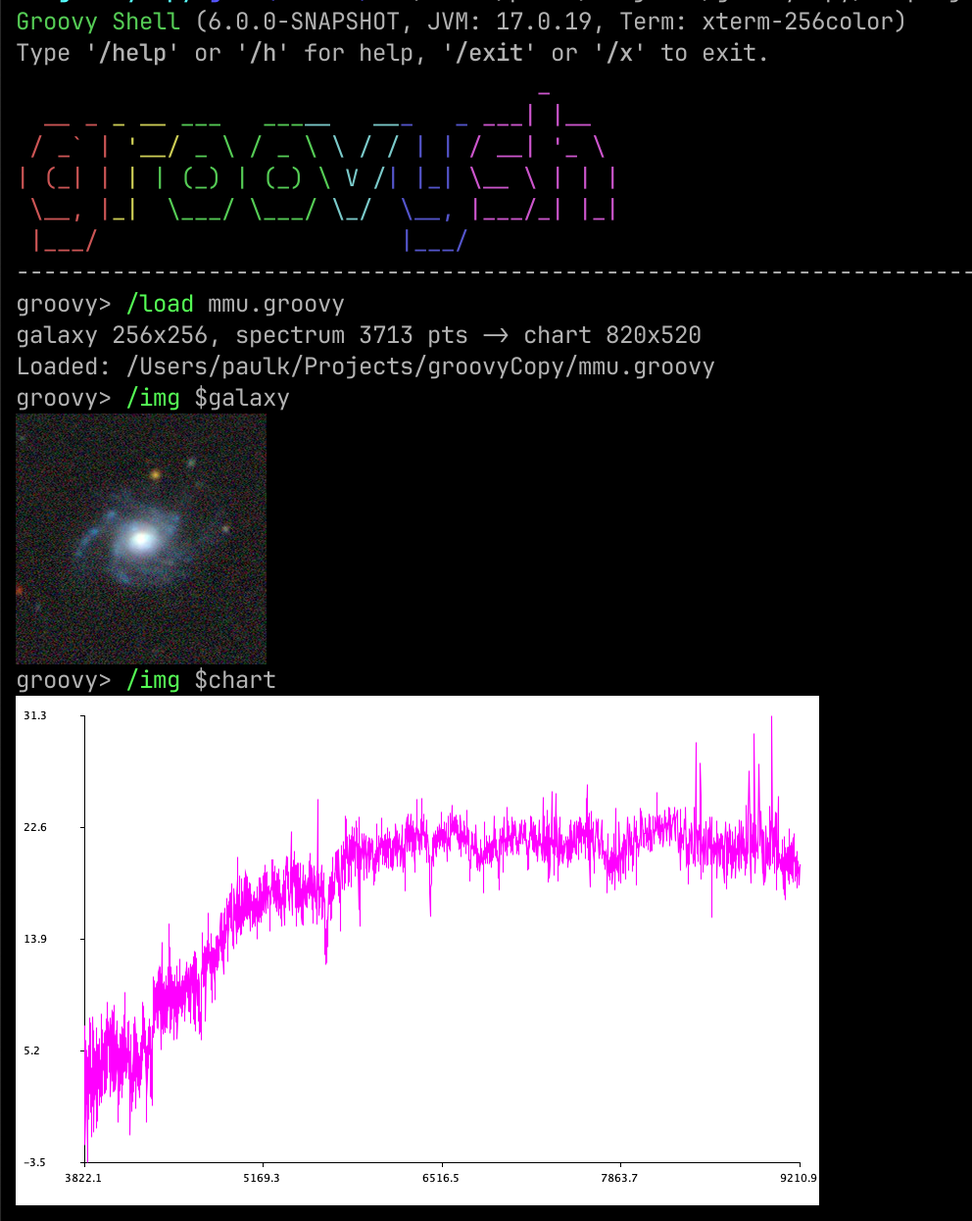
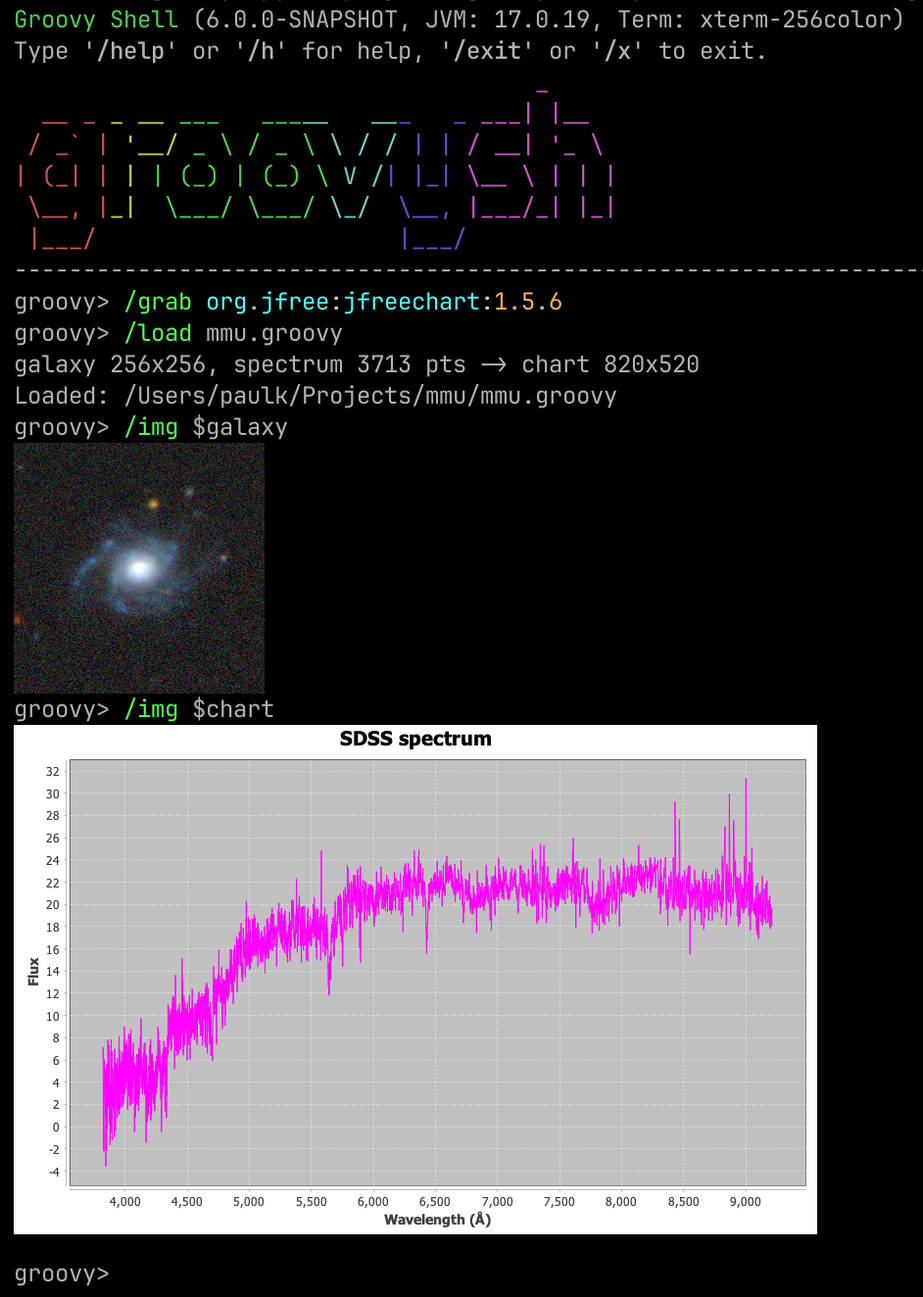
2026/07/02 23:31:56: Generated dev website from groovy-website@4575078

diff --git a/blog/multimodal-universe-with-groovy.html b/blog/multimodal-universe-with-groovy.html
@@ -3,7 +3,7 @@
 <!--[if IE 7]>         <html class="no-js lt-ie9 lt-ie8"> <![endif]-->
 <!--[if IE 8]>         <html class="no-js lt-ie9"> <![endif]-->
 <!--[if gt IE 8]><!--> <html class="no-js"> <!--<![endif]--><head>
-    <meta charset='utf-8'/><meta http-equiv='X-UA-Compatible' content='IE=edge'/><meta name='viewport' content='width=device-width, initial-scale=1'/><meta name='keywords' content='groovy, groovysh, huggingface, astronomy, astrophysics, data science, sixel, java2d, spectrum'/><meta name='description' content='Reproduce a viral astronomy demo in groovysh: load galaxy images and spectra from Hugging Face&apos;s Multimodal Universe and render them inline with /img.'/><title>The Apache Groovy programming language - Blogs - Exploring the Multimodal Universe with Groovy&trade;</title><link href='../img/favicon.ico' type='image/x-ico' rel='icon'/><script src='../js/matomo.js'></script><link rel='stylesheet' type='text/css' href='../css/bootstrap.css'/><link rel='stylesheet' type='text/css' href='../css/fontawesome.min.css'/><link rel='stylesheet' type='text/css' href='../css/brands.min.css'/><link rel='stylesheet' type='text/css' href='../css/regular.min.css'/><link rel='stylesheet' type='text/css' href='../css/solid.min.css'/><link rel='stylesheet' type='text/css' href='../css/style.css'/><link rel='stylesheet' type='text/css' href='../css/modern-design.css'/><link rel='stylesheet' type='text/css' href='../css/prettify.min.css'/>
+    <meta charset='utf-8'/><meta http-equiv='X-UA-Compatible' content='IE=edge'/><meta name='viewport' content='width=device-width, initial-scale=1'/><meta name='keywords' content='groovy, groovysh, huggingface, astronomy, astrophysics, data science, sixel, jfreechart, spectrum'/><meta name='description' content='Reproduce a viral astronomy demo in groovysh: load galaxy images and spectra from Hugging Face&apos;s Multimodal Universe and render them inline with /img.'/><title>The Apache Groovy programming language - Blogs - Exploring the Multimodal Universe with Groovy&trade;</title><link href='../img/favicon.ico' type='image/x-ico' rel='icon'/><script src='../js/matomo.js'></script><link rel='stylesheet' type='text/css' href='../css/bootstrap.css'/><link rel='stylesheet' type='text/css' href='../css/fontawesome.min.css'/><link rel='stylesheet' type='text/css' href='../css/brands.min.css'/><link rel='stylesheet' type='text/css' href='../css/regular.min.css'/><link rel='stylesheet' type='text/css' href='../css/solid.min.css'/><link rel='stylesheet' type='text/css' href='../css/style.css'/><link rel='stylesheet' type='text/css' href='../css/modern-design.css'/><link rel='stylesheet' type='text/css' href='../css/prettify.min.css'/>
 </head><body>
     <div id='fork-me'>
         <a href='https://github.com/apache/groovy'>
@@ -63,7 +63,7 @@
                                     </ul>
                                 </div>
                             </div>
-                        </div><div id='content' class='page-1'><div class='row'><div class='row-fluid'><div class='col-lg-3'><ul class='nav-sidebar'><li><a href='./'>Blog index</a></li><li class='active'><a href='#doc'>Exploring the Multimodal Universe with Groovy&trade;</a></li><li><a href='#_what_is_the_multimodal_universe' class='anchor-link'>What is the Multimodal Universe?</a></li><li><a href='#_rendering_images_in_groovysh' class='anchor-link'>Rendering images in groovysh</a></li><li><a href='#_the_script' class='anchor-link'>The script</a></li><li><a href='#_running_it' class='anchor-link'>Running it</a></li><li><a href='#_what_are_we_looking_at' class='anchor-link'>What are we looking at?</a></li><li><a href='#_what_we_didnt_reproduce' class='anchor-link'>What we didn&#8217;t reproduce</a></li><li><a href='#_more_information' class='anchor-link'>More information</a></li><li><a href='#_conclusion' class='anchor-link'>Conclusion</a></li></ul><br/><ul class='nav-sidebar'><li style='padding: 0.35em 0.625em; background-color: #eee'><span>Related posts</span></li><li><a href='./reading-and-writing-csv-files'>Reading and Writing CSV files with Groovy&trade;</a></li><li><a href='./matrix-calculations-with-groovy-apache'>Matrix calculations with Groovy&trade;, Apache Commons Math, ojAlgo, Nd4j and EJML</a></li><li><a href='./fruity-eclipse-collections'>Fruity Eclipse Collections</a></li><li><a href='./classifying-iris-flowers-with-deep'>Classifying Iris Flowers with Deep Learning, Groovy&trade; and GraalVM</a></li><li><a href='./whiskey-clustering-with-groovy-and'>Whiskey Clustering with Groovy&trade; and Apache Ignite</a></li><li><a href='./detecting-objects-with-groovy-the'>Detecting objects with Groovy&trade;, the Deep Java Library (DJL), and Apache MXNet</a></li><li><a href='./using-groovy-with-apache-wayang'>Using Groovy&trade; with Apache Wayang and Apache Spark&trade;</a></li></ul></div><div class='col-lg-8 col-lg-pull-0'><a name='doc'></a><h1>Exploring the Multimodal Universe with Groovy&trade;</h1><p><div style='display:flex;padding:0.2ex'><span>Author:&nbsp;</span>
+                        </div><div id='content' class='page-1'><div class='row'><div class='row-fluid'><div class='col-lg-3'><ul class='nav-sidebar'><li><a href='./'>Blog index</a></li><li class='active'><a href='#doc'>Exploring the Multimodal Universe with Groovy&trade;</a></li><li><a href='#_what_is_the_multimodal_universe' class='anchor-link'>What is the Multimodal Universe?</a></li><li><a href='#_rendering_images_in_groovysh' class='anchor-link'>Rendering images in groovysh</a></li><li><a href='#_the_script' class='anchor-link'>The script</a></li><li><a href='#_running_it' class='anchor-link'>Running it</a></li><li><a href='#_what_are_we_looking_at' class='anchor-link'>What are we looking at?</a></li><li><a href='#_what_we_didnt_reproduce' class='anchor-link'>What we didn&#8217;t reproduce</a></li><li><a href='#_a_dependency_free_variant' class='anchor-link'>A dependency-free variant</a></li><li><a href='#_more_information' class='anchor-link'>More information</a></li><li><a href='#_conclusion' class='anchor-link'>Conclusion</a></li></ul><br/><ul class='nav-sidebar'><li style='padding: 0.35em 0.625em; background-color: #eee'><span>Related posts</span></li><li><a href='./reading-and-writing-csv-files'>Reading and Writing CSV files with Groovy&trade;</a></li><li><a href='./matrix-calculations-with-groovy-apache'>Matrix calculations with Groovy&trade;, Apache Commons Math, ojAlgo, Nd4j and EJML</a></li><li><a href='./fruity-eclipse-collections'>Fruity Eclipse Collections</a></li><li><a href='./classifying-iris-flowers-with-deep'>Classifying Iris Flowers with Deep Learning, Groovy&trade; and GraalVM</a></li><li><a href='./whiskey-clustering-with-groovy-and'>Whiskey Clustering with Groovy&trade; and Apache Ignite</a></li><li><a href='./detecting-objects-with-groovy-the'>Detecting objects with Groovy&trade;, the Deep Java Library (DJL), and Apache MXNet</a></li><li><a href='./using-groovy-with-apache-wayang'>Using Groovy&trade; with Apache Wayang and Apache Spark&trade;</a></li></ul></div><div class='col-lg-8 col-lg-pull-0'><a name='doc'></a><h1>Exploring the Multimodal Universe with Groovy&trade;</h1><p><div style='display:flex;padding:0.2ex'><span>Author:&nbsp;</span>
 <a href="https://github.com/paulk-asert/" target="_blank" rel="noopener noreferrer"><img style="border-radius:50%;height:48px;width:auto" src="img/paulk-asert.png" alt="Paul King"></a>
 <div style="display:grid;align-items:center;margin:0.1ex;padding:0ex">
   <div><a href="https://github.com/paulk-asert/" target="_blank" rel="noopener noreferrer"><span>Paul King</span></a></div>
@@ -180,8 +180,147 @@ chart we build ourselves.</p>
 <div class="paragraph">
 <p>Here is the complete <code>mmu.groovy</code> script. It reads one cross-matched-style row from each dataset,
 decodes the galaxy PNG, filters the masked points out of the spectrum (mirroring the video&#8217;s
-<code>s = s[~s["mask"]]</code>), and hand-draws the spectrum as a Java2D line plot returned as a
+<code>s = s[~s["mask"]]</code>), and plots the spectrum with JFreeChart, handed to <code>/img</code> as a
 <code>BufferedImage</code>:</p>
+</div>
+<div class="listingblock">
+<div class="content">
+<pre class="prettyprint highlight"><code data-lang="groovy">import groovy.json.JsonSlurper
+import java.awt.Color
+import javax.imageio.ImageIO
+import org.jfree.chart.ChartFactory
+import org.jfree.data.xy.XYSeries
+import org.jfree.data.xy.XYSeriesCollection
+
+rows = { String ds -&gt; new JsonSlurper().parse(
+    new URL("https://datasets-server.huggingface.co/rows?dataset=$ds&amp;config=default&amp;split=train&amp;offset=0&amp;length=1")).rows[0].row }
+
+// --- the galaxy: gz10 stores a ready-made RGB PNG as base64 bytes ---
+galaxy = ImageIO.read(new ByteArrayInputStream(rows('UniverseTBD/mmu_gz10').rgb_image.bytes.decodeBase64()))
+
+// --- the spectrum: drop masked points, like s[~s["mask"]] in the video ---
+spec = rows('UniverseTBD/mmu_sdss_sdss').spectrum
+pts = [spec.'lambda', spec.flux, spec.mask].transpose().findAll { !it[2] }.collect { [it[0] as double, it[1] as double] }
+
+// --- a JFreeChart line plot -&gt; a BufferedImage that /img renders ---
+series = new XYSeries('flux')
+pts.each { series.add(it[0], it[1]) }
+plot = ChartFactory.createXYLineChart('SDSS spectrum', 'Wavelength (Å)', 'Flux', new XYSeriesCollection(series))
+plot.XYPlot.renderer.setSeriesPaint(0, Color.MAGENTA)  // magenta, to match the original demo
+plot.removeLegend()
+chart = plot.createBufferedImage(820, 520)
+println "galaxy ${galaxy.width}x${galaxy.height}, spectrum ${pts.size()} pts -&gt; chart ${chart.width}x${chart.height}"</code></pre>
+</div>
+</div>
+<div class="paragraph">
+<p>A few things worth pointing out:</p>
+</div>
+<div class="ulist">
+<ul>
+<li>
+<p>The whole data-access layer is a one-line closure. <code>JsonSlurper</code> parses the HTTP response, and
+Groovy&#8217;s GDK gives us <code>decodeBase64()</code> on the PNG string for free.</p>
+</li>
+<li>
+<p><code>transpose()</code> zips the three parallel arrays (<code>lambda</code>, <code>flux</code>, <code>mask</code>) together so we can
+<code>findAll</code> the unmasked samples in one readable expression.</p>
+</li>
+<li>
+<p>The spectrum is drawn with <a href="https://www.jfree.org/jfreechart/">JFreeChart</a>: <code>createXYLineChart</code>
+gives us axes, ticks and gridlines for free, and <code>createBufferedImage</code> hands <code>/img</code> exactly the
+<code>BufferedImage</code> it wants. That is the same trick the <code>groovysh</code> user guide uses to show off XChart,
+Smile and Orson Charts — <code>/img</code> speaks <code>BufferedImage</code>, so the whole JVM charting ecosystem is one
+<code>/grab</code> away.</p>
+</li>
+</ul>
+</div>
+</div>
+</div>
+<div class="sect1">
+<h2 id="_running_it">Running it</h2>
+<div class="sectionbody">
+<div class="paragraph">
+<p>Start <code>groovysh</code>, pull in the one charting dependency with the shell&#8217;s <code>/grab</code> command, load the
+script, and view each result with <code>/img</code>:</p>
+</div>
+<div class="listingblock">
+<div class="content">
+<pre class="prettyprint highlight"><code>groovy> /grab org.jfree:jfreechart:1.5.6
+groovy> /load mmu.groovy
+galaxy 256x256, spectrum 3713 pts -> chart 820x520
+Loaded: mmu.groovy
+groovy> /img $galaxy
+groovy> /img $chart</code></pre>
+</div>
+</div>
+<div class="paragraph">
+<p>We use <code>groovysh&#8217;s `/grab</code> command rather than an <code>@Grab</code> annotation in the script itself: <code>/load</code>
+runs the file as a plain script, so grabbing the dependency in the shell first keeps that step
+explicit (and matches how the <code>groovysh</code> guide adds XChart, Smile and the other charting libraries).</p>
+</div>
+<div class="paragraph">
+<p>Here is the script itself, viewed through the shell&#8217;s built-in <code>/less</code> pager (which syntax-highlights
+Groovy):</p>
+</div>
+<div class="paragraph">
+<p><span class="image"><img src="./img/mmu-groovysh-source.png" alt="The mmu.groovy script in the groovysh pager" width="800"></span></p>
+</div>
+<div class="paragraph">
+<p>And here is the payoff — a galaxy and its spectrum, drawn directly in the terminal:</p>
+</div>
+<div class="paragraph">
+<p><span class="image"><img src="./img/mmu-groovysh-output.png" alt="groovysh rendering a galaxy image and its spectrum inline" width="600"></span></p>
+</div>
+</div>
+</div>
+<div class="sect1">
+<h2 id="_what_are_we_looking_at">What are we looking at?</h2>
+<div class="sectionbody">
+<div class="paragraph">
+<p>The top image is a single galaxy from the Galaxy Zoo / DECaLS set: a bright central bulge with
+fainter spiral structure around it, sitting in a field speckled with foreground stars and other
+faint sources (the little coloured dots). It is a true-colour composite assembled from the survey&#8217;s
+imaging bands.</p>
+</div>
+<div class="paragraph">
+<p>The lower plot is that same class of object&#8217;s SDSS optical spectrum: <strong>flux on the vertical axis
+against wavelength (in &#8491;ngstr&ouml;ms) on the horizontal axis</strong>, from about 3800&#8491; on the
+left to 9200&#8491; on the right. The characteristic shape — low and noisy in the blue, rising to a
+broad, fairly flat continuum toward the red — is the combined light of the galaxy&#8217;s stellar
+populations, with narrow spikes where emission lines and residual sky features poke through. We drew
+the line in magenta to match the original demo, and let JFreeChart supply the axes, ticks and
+gridlines. We removed the flagged (`mask`ed) pixels first, so 3713 good samples remain out of the
+original ~3850.</p>
+</div>
+<div class="paragraph">
+<p>The real point: a few lines of Groovy pulled a real galaxy and a real spectrum out of an 80TB,
+30-survey collection, over plain HTTP, and painted them in a terminal — with no local data download.
+And because <code>groovysh&#8217;s `/img</code> speaks <code>BufferedImage</code>, reaching for a proper charting library like
+JFreeChart costs one <code>/grab</code> and a handful of lines. And if you would rather ship no dependency at
+all, the pure-JDK variant at the end of this post draws the same plot by hand.</p>
+</div>
+</div>
+</div>
+<div class="sect1">
+<h2 id="_what_we_didnt_reproduce">What we didn&#8217;t reproduce</h2>
+<div class="sectionbody">
+<div class="paragraph">
+<p>The original video&#8217;s headline feat is the <strong>cross-match</strong> itself — joining <code>gz10</code> (imagery) against
+<code>sdss</code> (spectra), or SDSS against Gaia, using LSDB&#8217;s HATS-partitioned catalogs. That machinery is
+Python-native and has no direct JVM equivalent, so here we simply grabbed a representative row from
+each dataset rather than computing the spatial join. Everything downstream of the match — decoding
+the image, cleaning the spectrum, and rendering both — is pure Groovy and the JDK.</p>
+</div>
+</div>
+</div>
+<div class="sect1">
+<h2 id="_a_dependency_free_variant">A dependency-free variant</h2>
+<div class="sectionbody">
+<div class="paragraph">
+<p>Reaching for JFreeChart is the pragmatic choice, but the demo also works with <strong>no external dependency
+at all</strong> — the JDK&#8217;s own Java2D can paint the line plot straight into a <code>BufferedImage</code>, which is
+exactly what <code>/img</code> consumes. It is more code, but it ships with the JVM, so there is no <code>/grab</code>: just
+<code>/load mmu_java2d.groovy</code>.</p>
 </div>
 <div class="listingblock">
 <div class="content">
@@ -230,93 +369,23 @@ println "galaxy ${galaxy.width}x${galaxy.height}, spectrum ${pts.size()} pts -&g
 </div>
 </div>
 <div class="paragraph">
-<p>A few things worth pointing out:</p>
+<p>Two things worth noting:</p>
 </div>
 <div class="ulist">
 <ul>
 <li>
-<p>The whole data-access layer is a one-line closure. <code>JsonSlurper</code> parses the HTTP response, and
-Groovy&#8217;s GDK gives us <code>decodeBase64()</code> on the PNG string for free.</p>
+<p>No <code>/grab</code> this time — the plot is hand-drawn with Java2D in the <code>spectrumPlot</code> closure, so we scale
+the axes, draw the ticks, and stroke the line ourselves instead of getting them for free. That is the
+cost of dropping the dependency.</p>
 </li>
 <li>
-<p><code>transpose()</code> zips the three parallel arrays (<code>lambda</code>, <code>flux</code>, <code>mask</code>) together so we can
-<code>findAll</code> the unmasked samples in one readable expression.</p>
-</li>
-<li>
-<p>Note the <code>import module java.desktop</code> on line 3. This is a
-<a href="https://openjdk.org/jeps/494">JDK module import</a> (JEP 494), supported in Groovy 6, that pulls in every
-package the <code>java.desktop</code> module exports (<code>java.awt</code>, <code>java.awt.geom</code>, <code>java.awt.image</code>, and more) in
-a single line — handy for a script that reaches into a few AWT corners.</p>
+<p>The <code>import module java.desktop</code> on line 3 is a <a href="https://openjdk.org/jeps/494">JDK module import</a>
+(JEP 494), supported in Groovy 6: it pulls in every package the <code>java.desktop</code> module exports
+(<code>java.awt</code>, <code>java.awt.geom</code>, <code>java.awt.image</code>, and more) in a single line — handy here because the
+hand-rolled plot reaches into several AWT corners (<code>BufferedImage</code>, <code>Path2D</code>, <code>BasicStroke</code>,
+<code>RenderingHints</code>, <code>Color</code>).</p>
 </li>
 </ul>
-</div>
-</div>
-</div>
-<div class="sect1">
-<h2 id="_running_it">Running it</h2>
-<div class="sectionbody">
-<div class="paragraph">
-<p>Start <code>groovysh</code>, load the script, and view each result with <code>/img</code>:</p>
-</div>
-<div class="listingblock">
-<div class="content">
-<pre class="prettyprint highlight"><code>groovy> /load mmu.groovy
-galaxy 256x256, spectrum 3713 pts -> chart 820x520
-Loaded: mmu.groovy
-groovy> /img $galaxy
-groovy> /img $chart</code></pre>
-</div>
-</div>
-<div class="paragraph">
-<p>Here is the script itself, viewed through the shell&#8217;s built-in <code>/less</code> pager (which syntax-highlights
-Groovy):</p>
-</div>
-<div class="paragraph">
-<p><span class="image"><img src="./img/mmu-groovysh-source.png" alt="The mmu.groovy script in the groovysh pager" width="800"></span></p>
-</div>
-<div class="paragraph">
-<p>And here is the payoff — a galaxy and its spectrum, drawn directly in the terminal:</p>
-</div>
-<div class="paragraph">
-<p><span class="image"><img src="./img/mmu-groovysh-output.png" alt="groovysh rendering a galaxy image and its spectrum inline" width="600"></span></p>
-</div>
-</div>
-</div>
-<div class="sect1">
-<h2 id="_what_are_we_looking_at">What are we looking at?</h2>
-<div class="sectionbody">
-<div class="paragraph">
-<p>The top image is a single galaxy from the Galaxy Zoo / DECaLS set: a bright central bulge with
-fainter spiral structure around it, sitting in a field speckled with foreground stars and other
-faint sources (the little coloured dots). It is a true-colour composite assembled from the survey&#8217;s
-imaging bands.</p>
-</div>
-<div class="paragraph">
-<p>The lower plot is that same class of object&#8217;s SDSS optical spectrum: <strong>flux on the vertical axis
-against wavelength (in &#8491;ngstr&ouml;ms) on the horizontal axis</strong>, from about 3800&#8491; on the
-left to 9200&#8491; on the right. The characteristic shape — low and noisy in the blue, rising to a
-broad, fairly flat continuum toward the red — is the combined light of the galaxy&#8217;s stellar
-populations, with narrow spikes where emission lines and residual sky features poke through. We drew
-it in magenta to match the original demo; the thin black vertical hairs you can see are simply the
-plot connecting rapidly varying adjacent samples. We removed the flagged (`mask`ed) pixels first, so
-3713 good samples remain out of the original ~3850.</p>
-</div>
-<div class="paragraph">
-<p>The point isn&#8217;t the plot&#8217;s polish — it&#8217;s that a few lines of Groovy pulled a real galaxy and a real
-spectrum out of an 80TB, 30-survey collection, over plain HTTP, and painted them in a terminal, with
-no local data download and no heavyweight plotting dependency.</p>
-</div>
-</div>
-</div>
-<div class="sect1">
-<h2 id="_what_we_didnt_reproduce">What we didn&#8217;t reproduce</h2>
-<div class="sectionbody">
-<div class="paragraph">
-<p>The original video&#8217;s headline feat is the <strong>cross-match</strong> itself — joining <code>gz10</code> (imagery) against
-<code>sdss</code> (spectra), or SDSS against Gaia, using LSDB&#8217;s HATS-partitioned catalogs. That machinery is
-Python-native and has no direct JVM equivalent, so here we simply grabbed a representative row from
-each dataset rather than computing the spatial join. Everything downstream of the match — decoding
-the image, cleaning the spectrum, and rendering both — is pure Groovy and the JDK.</p>
 </div>
 </div>
 </div>

diff --git a/blog/index.html b/blog/index.html
@@ -107,7 +107,7 @@
                     colors: am5.ColorSet.new(root, {})
                 }));
                 wc.data.setAll([
-                { category: "groovy", value: 93 }, { category: "asf", value: 2 }, { category: "apachecon", value: 3 }, { category: "communityovercode", value: 2 }, { category: "natural language processing", value: 2 }, { category: "nlp", value: 1 }, { category: "nlpcraft", value: 1 }, { category: "combinations", value: 1 }, { category: "permutations", value: 1 }, { category: "testing", value: 2 }, { category: "junit", value: 2 }, { category: "spock", value: 2 }, { category: "jqwik", value: 2 }, { category: "allpairs", value: 1 }, { category: "emoji", value: 10 }, { category: "decryption", value: 1 }, { category: "encryption", value: 1 }, { category: "security", value: 1 }, { category: "bouncy castle", value: 1 }, { category: "parrot", value: 1 }, { category: "windows installer", value: 8 }, { category: "release", value: 25 }, { category: "datetime", value: 2 }, { category: "timecategory", value: 1 }, { category: "date", value: 3 }, { category: "award", value: 1 }, { category: "fibonacci", value: 1 }, { category: "recursion", value: 1 }, { category: "streams", value: 5 }, { category: "gatherers", value: 2 }, { category: "jdk24", value: 2 }, { category: "chop", value: 2 }, { category: "collate", value: 2 }, { category: "inject", value: 2 }, { category: "fold", value: 2 }, { category: "scan", value: 2 }, { category: "async", value: 3 }, { category: "await", value: 3 }, { category: "concurrency", value: 4 }, { category: "virtual-threads", value: 1 }, { category: "centroids", value: 1 }, { category: "data science", value: 8 }, { category: "kmeans", value: 4 }, { category: "records", value: 7 }, { category: "whisky", value: 3 }, { category: "whiskey", value: 3 }, { category: "wayang", value: 2 }, { category: "apache spark", value: 1 }, { category: "apache wayang", value: 2 }, { category: "eclipse collections", value: 10 }, { category: "2022", value: 1 }, { category: "java", value: 3 }, { category: "pitest", value: 1 }, { category: "jacoco", value: 1 }, { category: "graalvm", value: 3 }, { category: "jvm", value: 1 }, { category: "native", value: 3 }, { category: "sql", value: 2 }, { category: "h2", value: 1 }, { category: "deep learning", value: 4 }, { category: "neural networks", value: 2 }, { category: "apache mxnet", value: 1 }, { category: "DJL", value: 1 }, { category: "artifical intelligence", value: 1 }, { category: "machine learning", value: 2 }, { category: "gradle", value: 3 }, { category: "bom_chars", value: 1 }, { category: "unicode", value: 1 }, { category: "encoding", value: 1 }, { category: "ginq", value: 7 }, { category: "jep461", value: 1 }, { category: "spark nlp", value: 1 }, { category: "apache opennlp", value: 1 }, { category: "corenlp", value: 1 }, { category: "nlp4j", value: 1 }, { category: "tensorflow", value: 3 }, { category: "djl", value: 2 }, { category: "smile", value: 1 }, { category: "datumbox", value: 1 }, { category: "eclipse deeplearning4j", value: 3 }, { category: "comparators", value: 1 }, { category: "functional", value: 1 }, { category: "gquery", value: 5 }, { category: "lambdas", value: 1 }, { category: "sorting", value: 1 }, { category: "clibuilder", value: 1 }, { category: "picocli", value: 1 }, { category: "commons cli", value: 1 }, { category: "design-by-contract", value: 1 }, { category: "dafny", value: 1 }, { category: "loop invariants", value: 1 }, { category: "lists", value: 2 }, { category: "collections", value: 5 }, { category: "guava", value: 3 }, { category: "commons collections", value: 2 }, { category: "apache", value: 3 }, { category: "null", value: 1 }, { category: "Groovy truth", value: 1 }, { category: "codenarc", value: 1 }, { category: "grails", value: 1 }, { category: "equals", value: 1 }, { category: "equality", value: 1 }, { category: "scala", value: 2 }, { category: "type checking", value: 3 }, { category: "groovyfx", value: 1 }, { category: "javafx", value: 1 }, { category: "jackson databind", value: 2 }, { category: "zipping", value: 1 }, { category: "wordle", value: 1 }, { category: "ignite", value: 1 }, { category: "clustering", value: 3 }, { category: "iris", value: 2 }, { category: "classification", value: 2 }, { category: "cycling", value: 2 }, { category: "duckdb", value: 1 }, { category: "csv", value: 2 }, { category: "spring ai", value: 1 }, { category: "embabel", value: 2 }, { category: "agentic", value: 1 }, { category: "artificial intelligence", value: 1 }, { category: "tribuo", value: 1 }, { category: "deep netts", value: 1 }, { category: "encog", value: 1 }, { category: "actors", value: 2 }, { category: "pekko", value: 1 }, { category: "gpars", value: 2 }, { category: "calendar", value: 1 }, { category: "jsr310", value: 1 }, { category: "time", value: 1 }, { category: "knapsack", value: 1 }, { category: "optimisation", value: 1 }, { category: "choco", value: 3 }, { category: "genetic algorithms", value: 1 }, { category: "dynamic programming", value: 1 }, { category: "printf", value: 1 }, { category: "regex", value: 2 }, { category: "format", value: 1 }, { category: "groovyConsole", value: 1 }, { category: "hephaestus", value: 1 }, { category: "domain specific languages", value: 1 }, { category: "jsr385", value: 1 }, { category: "units of measurement", value: 1 }, { category: "mina", value: 2 }, { category: "channels", value: 1 }, { category: "broadcast", value: 1 }, { category: "activeobject", value: 1 }, { category: "structured concurrency", value: 1 }, { category: "virtual threads", value: 6 }, { category: "networking", value: 2 }, { category: "AST transforms", value: 1 }, { category: "delegation", value: 1 }, { category: "design pattern", value: 1 }, { category: "obfuscated", value: 1 }, { category: "commons math", value: 3 }, { category: "kotlin", value: 1 }, { category: "lombok", value: 1 }, { category: "groovysh", value: 1 }, { category: "huggingface", value: 1 }, { category: "astronomy", value: 1 }, { category: "astrophysics", value: 1 }, { category: "sixel", value: 1 }, { category: "java2d", value: 1 }, { category: "spectrum", value: 1 }, { category: "aggregation", value: 1 }, { category: "search", value: 1 }, { category: "lucene", value: 1 }, { category: "jep431", value: 1 }, { category: "functional programming", value: 1 }, { category: "monoid", value: 1 }, { category: "semigroup", value: 1 }, { category: "monad", value: 1 }, { category: "purity", value: 1 }, { category: "type checker", value: 1 }, { category: "property-based testing", value: 1 }, { category: "null checker", value: 1 }, { category: "immutability", value: 1 }, { category: "invariants", value: 1 }, { category: "chatgpt", value: 1 }, { category: "one-liners", value: 1 }, { category: "tugraph", value: 1 }, { category: "apache tinkerpop", value: 1 }, { category: "gremlin", value: 1 }, { category: "neo4j", value: 1 }, { category: "apache age", value: 1 }, { category: "graph databases", value: 1 }, { category: "apache hugegraph", value: 1 }, { category: "arcadedb", value: 1 }, { category: "orientdb", value: 1 }, { category: "netbeans", value: 1 }, { category: "debug", value: 1 }, { category: "optaplanner", value: 1 }, { category: "timefold", value: 1 }, { category: "ojalgo", value: 2 }, { category: "jacop", value: 2 }, { category: "or-tools", value: 2 }, { category: "hipparchus", value: 1 }, { category: "linear programming", value: 1 }, { category: "scala integration", value: 1 }, { category: "apache commons", value: 1 }, { category: "phonetics", value: 1 }, { category: "pytorch", value: 1 }, { category: "codecs", value: 1 }, { category: "word2vec", value: 1 }, { category: "deeplearning4j", value: 1 }, { category: "sts", value: 1 }, { category: "llm", value: 1 }, { category: "oracle", value: 1 }, { category: "jdbc", value: 1 }, { category: "dataflow", value: 1 }, { category: "agents", value: 1 }, { category: "timezone", value: 1 }, { category: "sshd", value: 1 }, { category: "parallel collections", value: 1 }, { category: "pool", value: 1 }, { category: "fleet", value: 1 }, { category: "matrices", value: 1 }, { category: "nd4j", value: 1 }, { category: "ejml", value: 1 }, { category: "vector api", value: 1 }, { category: "zip", value: 1 }, { category: "vavr", value: 1 }, { category: "streamex", value: 1 }, { category: "jOOλ", value: 1 }, { category: "fizzbuzz", value: 1 }, { category: "switch", value: 1 }, { category: "pattern matching", value: 1 }, { category: "verification", value: 1 }, { category: "gep-19", value: 1 }, { category: "blog", value: 1 }, { category: "json", value: 1 }, { category: "scripting", value: 1 }, { category: "set", value: 1 }, { category: "constraint programming", value: 1 }, { category: "jsr331", value: 1 }, { category: "data", value: 1 }, { category: "deserialization", value: 1 }, { category: "files", value: 1 }, { category: "reading", value: 1 }, { category: "serialization", value: 1 }, { category: "writing", value: 1 }, { category: "opencsv", value: 1 }, { category: "commons csv", value: 1 }, { category: "apache echarts", value: 1 }, { category: "null safety", value: 1 }, { category: "static analysis", value: 1 }, { category: "annotations", value: 1 }, { category: "@Sortable", value: 1 }, { category: "many-to-many", value: 1 }, { category: "grouping", value: 1 }, { category: "maven", value: 1 }, { category: "gmaven", value: 1 }, { category: "lego", value: 1 }, { category: "ai", value: 1 }, { category: "ollama4j", value: 1 }, { category: "langchain4j", value: 1 }, { category: "spring-ai", value: 1 }, { category: "micronaut-ai", value: 1 }, { category: "quarkus-ai", value: 1 }, { category: "bytecode", value: 1 }, { category: "byte buddy", value: 1 }, { category: "proguardcore", value: 1 }, { category: "asm", value: 1 }, { category: "jvmadvent", value: 1 }
+                { category: "groovy", value: 93 }, { category: "asf", value: 2 }, { category: "apachecon", value: 3 }, { category: "communityovercode", value: 2 }, { category: "natural language processing", value: 2 }, { category: "nlp", value: 1 }, { category: "nlpcraft", value: 1 }, { category: "combinations", value: 1 }, { category: "permutations", value: 1 }, { category: "testing", value: 2 }, { category: "junit", value: 2 }, { category: "spock", value: 2 }, { category: "jqwik", value: 2 }, { category: "allpairs", value: 1 }, { category: "emoji", value: 10 }, { category: "decryption", value: 1 }, { category: "encryption", value: 1 }, { category: "security", value: 1 }, { category: "bouncy castle", value: 1 }, { category: "parrot", value: 1 }, { category: "windows installer", value: 8 }, { category: "release", value: 25 }, { category: "datetime", value: 2 }, { category: "timecategory", value: 1 }, { category: "date", value: 3 }, { category: "award", value: 1 }, { category: "fibonacci", value: 1 }, { category: "recursion", value: 1 }, { category: "streams", value: 5 }, { category: "gatherers", value: 2 }, { category: "jdk24", value: 2 }, { category: "chop", value: 2 }, { category: "collate", value: 2 }, { category: "inject", value: 2 }, { category: "fold", value: 2 }, { category: "scan", value: 2 }, { category: "async", value: 3 }, { category: "await", value: 3 }, { category: "concurrency", value: 4 }, { category: "virtual-threads", value: 1 }, { category: "centroids", value: 1 }, { category: "data science", value: 8 }, { category: "kmeans", value: 4 }, { category: "records", value: 7 }, { category: "whisky", value: 3 }, { category: "whiskey", value: 3 }, { category: "wayang", value: 2 }, { category: "apache spark", value: 1 }, { category: "apache wayang", value: 2 }, { category: "eclipse collections", value: 10 }, { category: "2022", value: 1 }, { category: "java", value: 3 }, { category: "pitest", value: 1 }, { category: "jacoco", value: 1 }, { category: "graalvm", value: 3 }, { category: "jvm", value: 1 }, { category: "native", value: 3 }, { category: "sql", value: 2 }, { category: "h2", value: 1 }, { category: "deep learning", value: 4 }, { category: "neural networks", value: 2 }, { category: "apache mxnet", value: 1 }, { category: "DJL", value: 1 }, { category: "artifical intelligence", value: 1 }, { category: "machine learning", value: 2 }, { category: "gradle", value: 3 }, { category: "bom_chars", value: 1 }, { category: "unicode", value: 1 }, { category: "encoding", value: 1 }, { category: "ginq", value: 7 }, { category: "jep461", value: 1 }, { category: "spark nlp", value: 1 }, { category: "apache opennlp", value: 1 }, { category: "corenlp", value: 1 }, { category: "nlp4j", value: 1 }, { category: "tensorflow", value: 3 }, { category: "djl", value: 2 }, { category: "smile", value: 1 }, { category: "datumbox", value: 1 }, { category: "eclipse deeplearning4j", value: 3 }, { category: "comparators", value: 1 }, { category: "functional", value: 1 }, { category: "gquery", value: 5 }, { category: "lambdas", value: 1 }, { category: "sorting", value: 1 }, { category: "clibuilder", value: 1 }, { category: "picocli", value: 1 }, { category: "commons cli", value: 1 }, { category: "design-by-contract", value: 1 }, { category: "dafny", value: 1 }, { category: "loop invariants", value: 1 }, { category: "lists", value: 2 }, { category: "collections", value: 5 }, { category: "guava", value: 3 }, { category: "commons collections", value: 2 }, { category: "apache", value: 3 }, { category: "null", value: 1 }, { category: "Groovy truth", value: 1 }, { category: "codenarc", value: 1 }, { category: "grails", value: 1 }, { category: "equals", value: 1 }, { category: "equality", value: 1 }, { category: "scala", value: 2 }, { category: "type checking", value: 3 }, { category: "groovyfx", value: 1 }, { category: "javafx", value: 1 }, { category: "jackson databind", value: 2 }, { category: "zipping", value: 1 }, { category: "wordle", value: 1 }, { category: "ignite", value: 1 }, { category: "clustering", value: 3 }, { category: "iris", value: 2 }, { category: "classification", value: 2 }, { category: "cycling", value: 2 }, { category: "duckdb", value: 1 }, { category: "csv", value: 2 }, { category: "spring ai", value: 1 }, { category: "embabel", value: 2 }, { category: "agentic", value: 1 }, { category: "artificial intelligence", value: 1 }, { category: "tribuo", value: 1 }, { category: "deep netts", value: 1 }, { category: "encog", value: 1 }, { category: "actors", value: 2 }, { category: "pekko", value: 1 }, { category: "gpars", value: 2 }, { category: "calendar", value: 1 }, { category: "jsr310", value: 1 }, { category: "time", value: 1 }, { category: "knapsack", value: 1 }, { category: "optimisation", value: 1 }, { category: "choco", value: 3 }, { category: "genetic algorithms", value: 1 }, { category: "dynamic programming", value: 1 }, { category: "printf", value: 1 }, { category: "regex", value: 2 }, { category: "format", value: 1 }, { category: "groovyConsole", value: 1 }, { category: "hephaestus", value: 1 }, { category: "domain specific languages", value: 1 }, { category: "jsr385", value: 1 }, { category: "units of measurement", value: 1 }, { category: "mina", value: 2 }, { category: "channels", value: 1 }, { category: "broadcast", value: 1 }, { category: "activeobject", value: 1 }, { category: "structured concurrency", value: 1 }, { category: "virtual threads", value: 6 }, { category: "networking", value: 2 }, { category: "AST transforms", value: 1 }, { category: "delegation", value: 1 }, { category: "design pattern", value: 1 }, { category: "obfuscated", value: 1 }, { category: "commons math", value: 3 }, { category: "kotlin", value: 1 }, { category: "lombok", value: 1 }, { category: "groovysh", value: 1 }, { category: "huggingface", value: 1 }, { category: "astronomy", value: 1 }, { category: "astrophysics", value: 1 }, { category: "sixel", value: 1 }, { category: "jfreechart", value: 1 }, { category: "spectrum", value: 1 }, { category: "aggregation", value: 1 }, { category: "search", value: 1 }, { category: "lucene", value: 1 }, { category: "jep431", value: 1 }, { category: "functional programming", value: 1 }, { category: "monoid", value: 1 }, { category: "semigroup", value: 1 }, { category: "monad", value: 1 }, { category: "purity", value: 1 }, { category: "type checker", value: 1 }, { category: "property-based testing", value: 1 }, { category: "null checker", value: 1 }, { category: "immutability", value: 1 }, { category: "invariants", value: 1 }, { category: "chatgpt", value: 1 }, { category: "one-liners", value: 1 }, { category: "tugraph", value: 1 }, { category: "apache tinkerpop", value: 1 }, { category: "gremlin", value: 1 }, { category: "neo4j", value: 1 }, { category: "apache age", value: 1 }, { category: "graph databases", value: 1 }, { category: "apache hugegraph", value: 1 }, { category: "arcadedb", value: 1 }, { category: "orientdb", value: 1 }, { category: "netbeans", value: 1 }, { category: "debug", value: 1 }, { category: "optaplanner", value: 1 }, { category: "timefold", value: 1 }, { category: "ojalgo", value: 2 }, { category: "jacop", value: 2 }, { category: "or-tools", value: 2 }, { category: "hipparchus", value: 1 }, { category: "linear programming", value: 1 }, { category: "scala integration", value: 1 }, { category: "apache commons", value: 1 }, { category: "phonetics", value: 1 }, { category: "pytorch", value: 1 }, { category: "codecs", value: 1 }, { category: "word2vec", value: 1 }, { category: "deeplearning4j", value: 1 }, { category: "sts", value: 1 }, { category: "llm", value: 1 }, { category: "oracle", value: 1 }, { category: "jdbc", value: 1 }, { category: "dataflow", value: 1 }, { category: "agents", value: 1 }, { category: "timezone", value: 1 }, { category: "sshd", value: 1 }, { category: "parallel collections", value: 1 }, { category: "pool", value: 1 }, { category: "fleet", value: 1 }, { category: "matrices", value: 1 }, { category: "nd4j", value: 1 }, { category: "ejml", value: 1 }, { category: "vector api", value: 1 }, { category: "zip", value: 1 }, { category: "vavr", value: 1 }, { category: "streamex", value: 1 }, { category: "jOOλ", value: 1 }, { category: "fizzbuzz", value: 1 }, { category: "switch", value: 1 }, { category: "pattern matching", value: 1 }, { category: "verification", value: 1 }, { category: "gep-19", value: 1 }, { category: "blog", value: 1 }, { category: "json", value: 1 }, { category: "scripting", value: 1 }, { category: "set", value: 1 }, { category: "constraint programming", value: 1 }, { category: "jsr331", value: 1 }, { category: "data", value: 1 }, { category: "deserialization", value: 1 }, { category: "files", value: 1 }, { category: "reading", value: 1 }, { category: "serialization", value: 1 }, { category: "writing", value: 1 }, { category: "opencsv", value: 1 }, { category: "commons csv", value: 1 }, { category: "apache echarts", value: 1 }, { category: "null safety", value: 1 }, { category: "static analysis", value: 1 }, { category: "annotations", value: 1 }, { category: "@Sortable", value: 1 }, { category: "many-to-many", value: 1 }, { category: "grouping", value: 1 }, { category: "maven", value: 1 }, { category: "gmaven", value: 1 }, { category: "lego", value: 1 }, { category: "ai", value: 1 }, { category: "ollama4j", value: 1 }, { category: "langchain4j", value: 1 }, { category: "spring-ai", value: 1 }, { category: "micronaut-ai", value: 1 }, { category: "quarkus-ai", value: 1 }, { category: "bytecode", value: 1 }, { category: "byte buddy", value: 1 }, { category: "proguardcore", value: 1 }, { category: "asm", value: 1 }, { category: "jvmadvent", value: 1 }
                 ]);
                 wc.labels.template.setAll({
                     paddingTop: 5,
